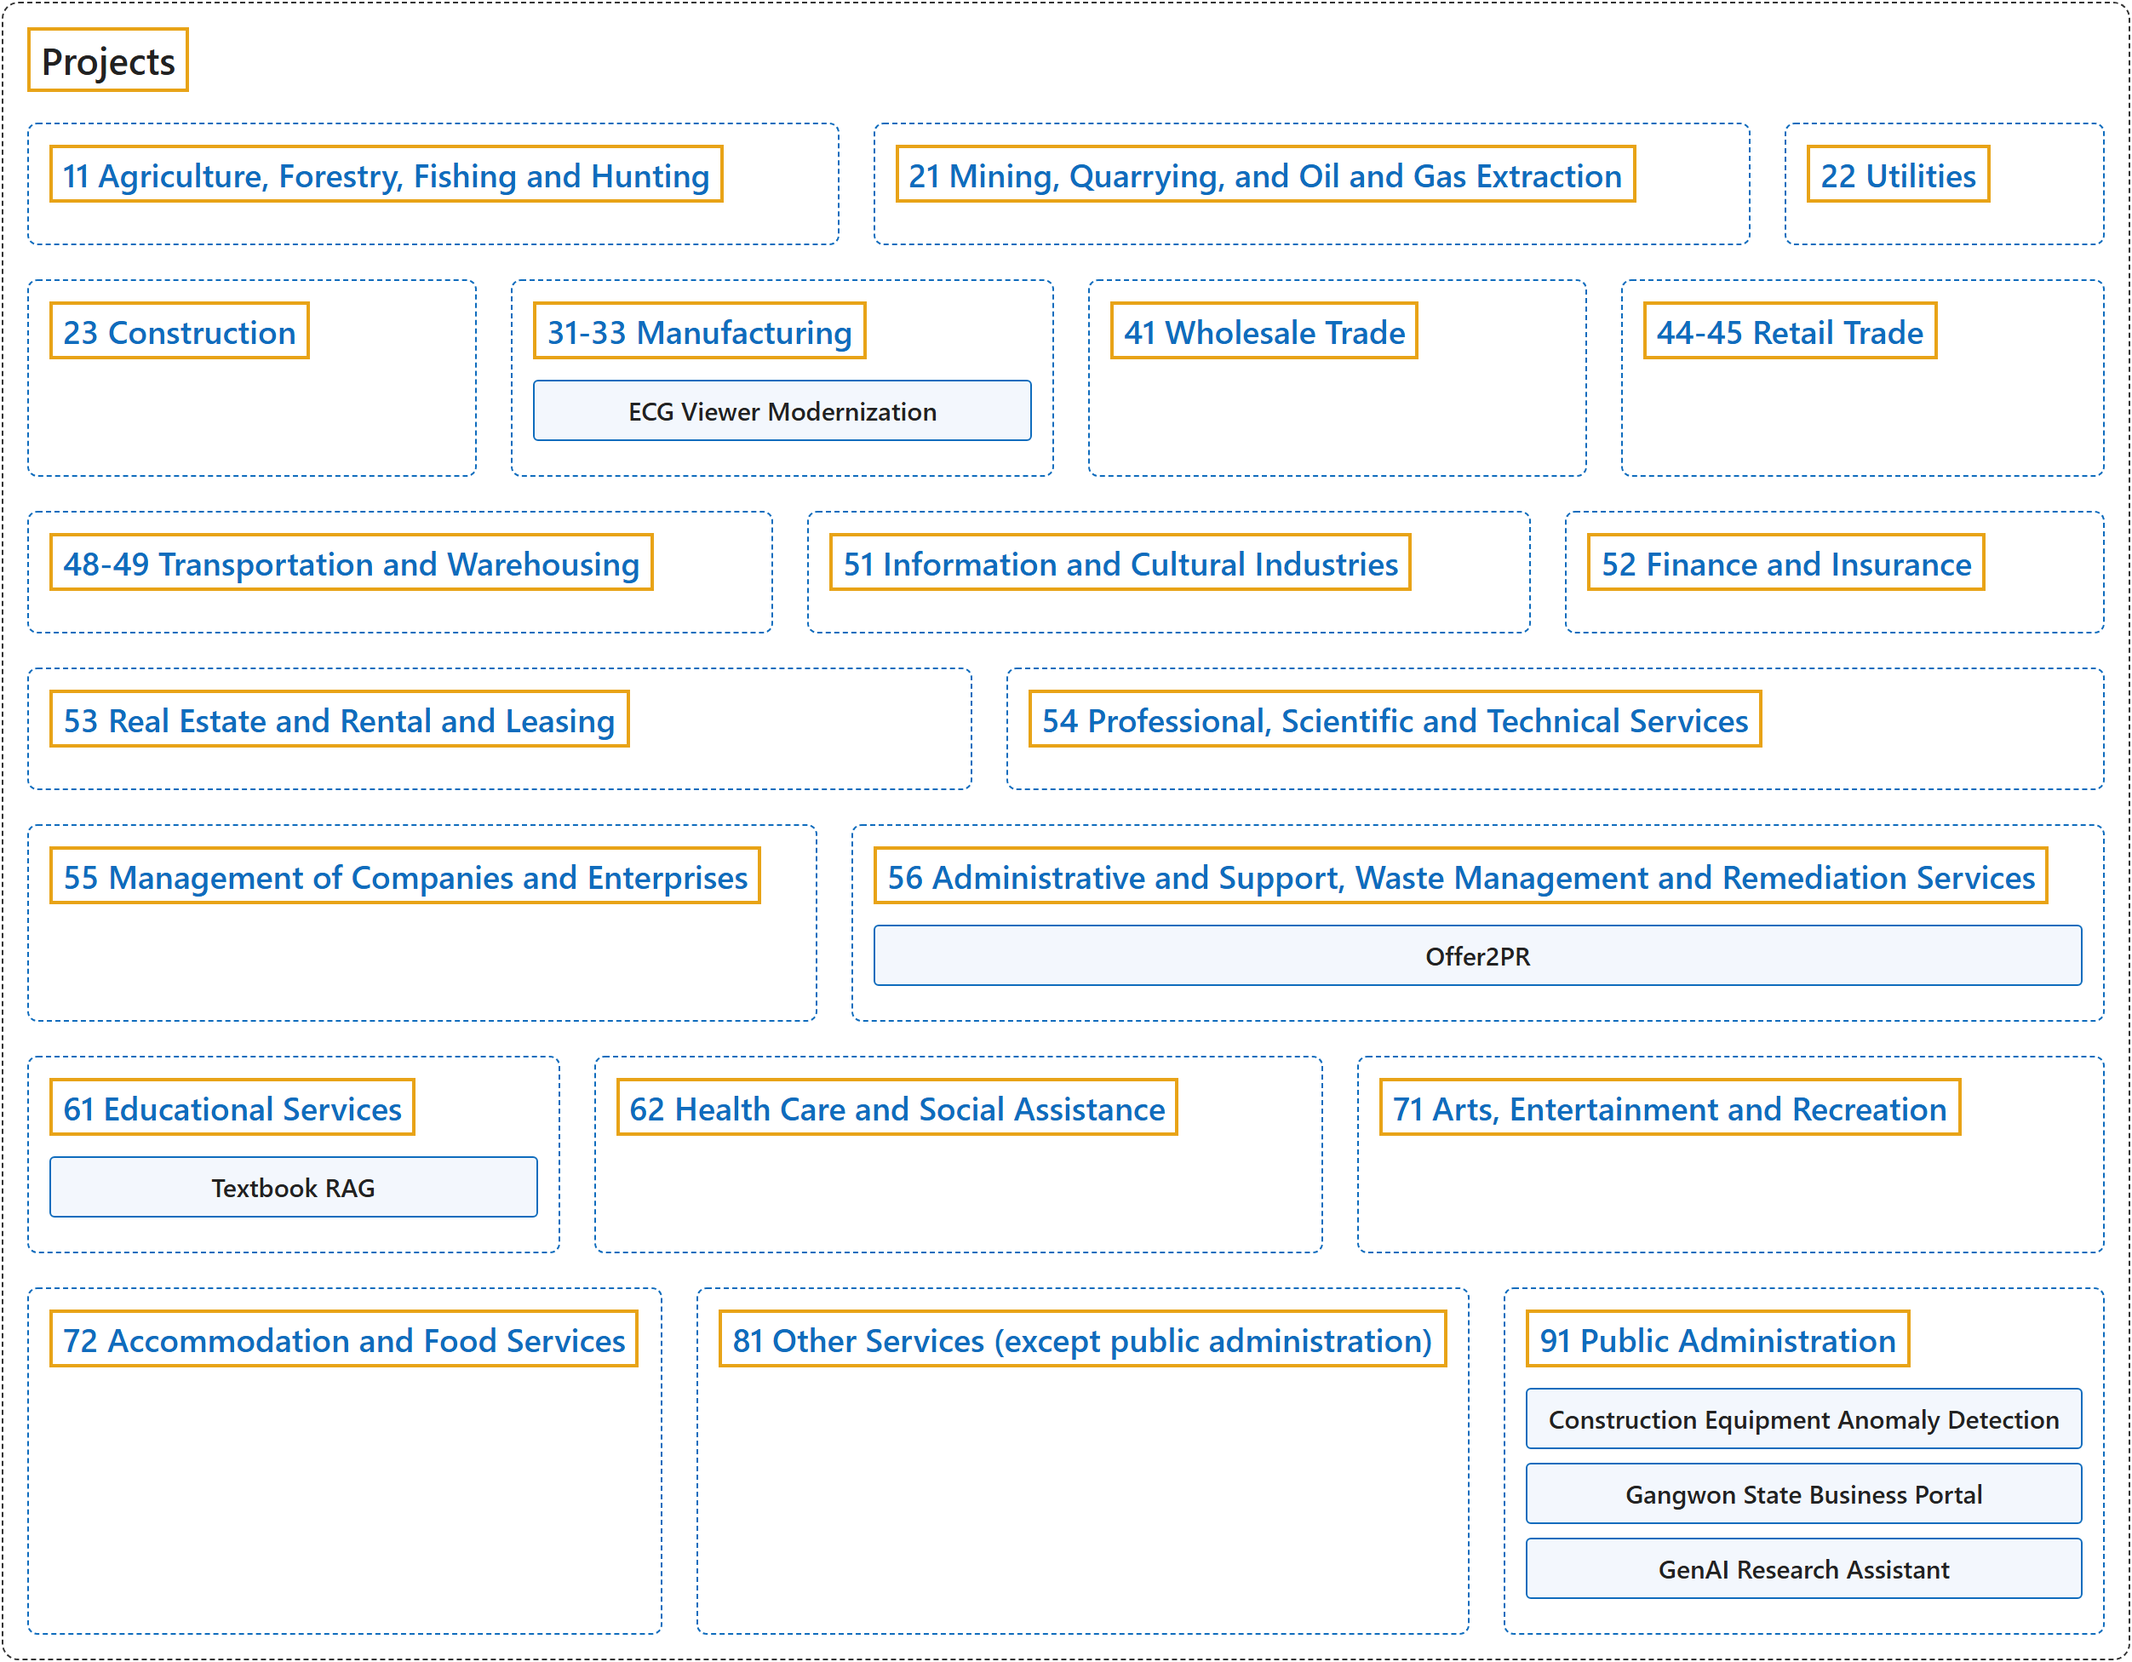
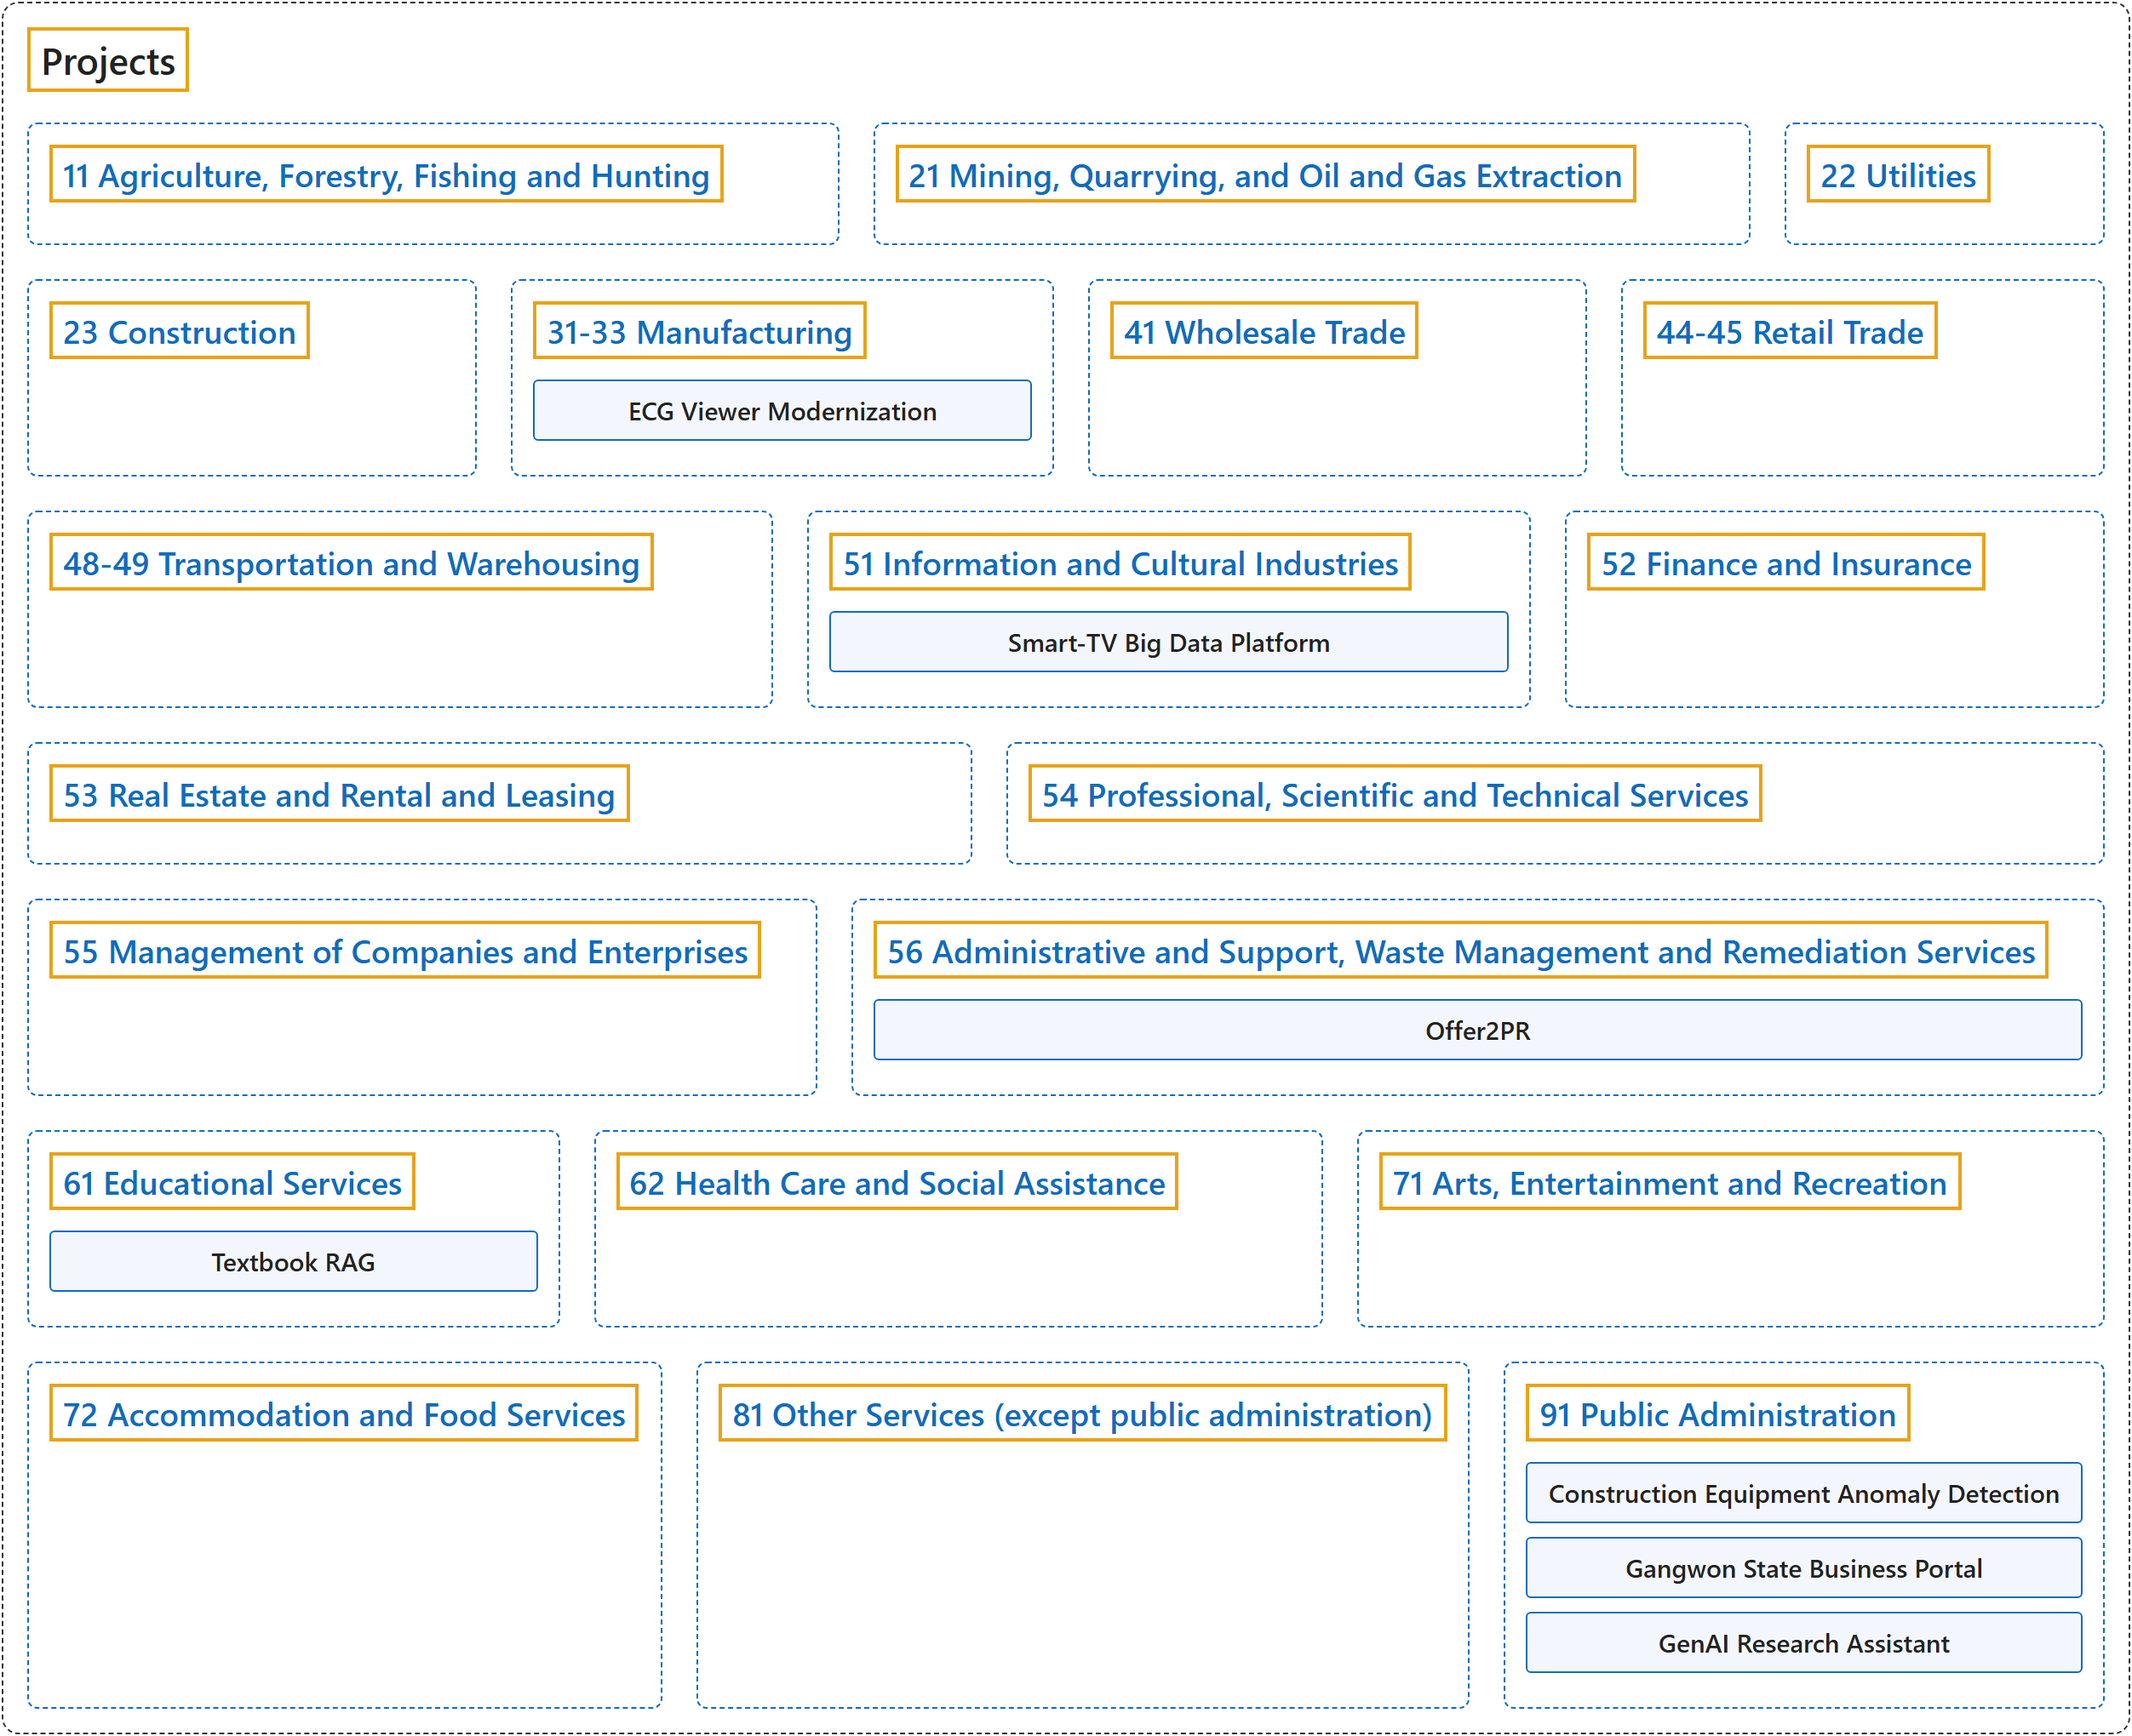
feat(projects): Smart-TV Big Data Platform added to the Projects figure under 51 Information and Cultural Industries; its summary in the Overview and sector 51 tables now describes the two platforms (HuanTV, Gozen Data)

diff --git a/figures/projects/projects.html b/figures/projects/projects.html
@@ -42,6 +42,7 @@
     </div>
     <div class="group">
       <div class="title">51 Information and Cultural Industries</div>
+      <div class="item">Smart-TV Big Data Platform</div>
     </div>
     <div class="group">
       <div class="title">52 Finance and Insurance</div>

diff --git a/docs/projects/index.md b/docs/projects/index.md
@@ -48,7 +48,7 @@ Newest first.
 | [Textbook RAG](textbook-rag.md) | Retrieval-augmented question answering over course textbooks with hybrid retrieval (BM25 plus vector search). | Architect & Developer (Capstone, solo) | Algonquin College | Mar 2026 – Jun 2026 |
 | [Gangwon State Business Portal](gangwon-portal.md) | A B2B performance-management portal where startups submit performance data and apply for government support programs. | Lead Architect & Developer (team) | Gangwon State, Korea | Dec 2025 – Apr 2026 |
 | [GenAI Research Assistant](ottawa-genai.md) | Designed and built a proof-of-concept generative AI research assistant for the City of Ottawa's Economic Development team, then continued it with City-side collaborators. | Architect & Developer (PoC) | City of Ottawa | Sep 2025 – Apr 2026 |
-| [Smart-TV Big Data Platform](huantv-big-data-platform.md) | A smart-TV data platform processing over a billion device records a day with sub-second queries, moved from self-managed CDH Hadoop on Tencent Cloud to Alibaba Cloud EMR, with Apache DolphinScheduler scheduling and ClickHouse queries. | Senior Big Data Architect: Architecture, Development & Operations | Guangzhou Huan Technology (HuanTV), Guangzhou | Apr 2015 – Sep 2022 |
+| [Smart-TV Big Data Platform](huantv-big-data-platform.md) | Two smart-TV big data platforms, each processing over a billion device records a day with sub-second queries. HuanTV's moved in 2022 from self-managed CDH Hadoop on Tencent Cloud to Alibaba Cloud EMR and from xxl-job to Apache DolphinScheduler; Gozen Data's was built on Alibaba Cloud with an OSS data warehouse, EMR, DolphinScheduler and ClickHouse. | Senior Big Data Architect: Architecture, Development & Operations | Guangzhou Huan Technology (HuanTV), Guangzhou | Apr 2015 – Sep 2022 |
 
 ## References
 

diff --git a/docs/projects/51-information-and-cultural-industries/index.md b/docs/projects/51-information-and-cultural-industries/index.md
@@ -16,7 +16,7 @@ ms.date: 2026-11-05
 
 | Project | What it is | Role | Organization | Dates |
 |---|---|---|---|---|
-| [Smart-TV Big Data Platform](../huantv-big-data-platform.md) | A smart-TV data platform processing over a billion device records a day with sub-second queries, moved from self-managed CDH Hadoop on Tencent Cloud to Alibaba Cloud EMR, with Apache DolphinScheduler scheduling and ClickHouse queries. | Senior Big Data Architect: Architecture, Development & Operations | Guangzhou Huan Technology (HuanTV), Guangzhou | Apr 2015 – Sep 2022 |
+| [Smart-TV Big Data Platform](../huantv-big-data-platform.md) | Two smart-TV big data platforms, each processing over a billion device records a day with sub-second queries. HuanTV's moved in 2022 from self-managed CDH Hadoop on Tencent Cloud to Alibaba Cloud EMR and from xxl-job to Apache DolphinScheduler; Gozen Data's was built on Alibaba Cloud with an OSS data warehouse, EMR, DolphinScheduler and ClickHouse. | Senior Big Data Architect: Architecture, Development & Operations | Guangzhou Huan Technology (HuanTV), Guangzhou | Apr 2015 – Sep 2022 |
 
 ## References
 
